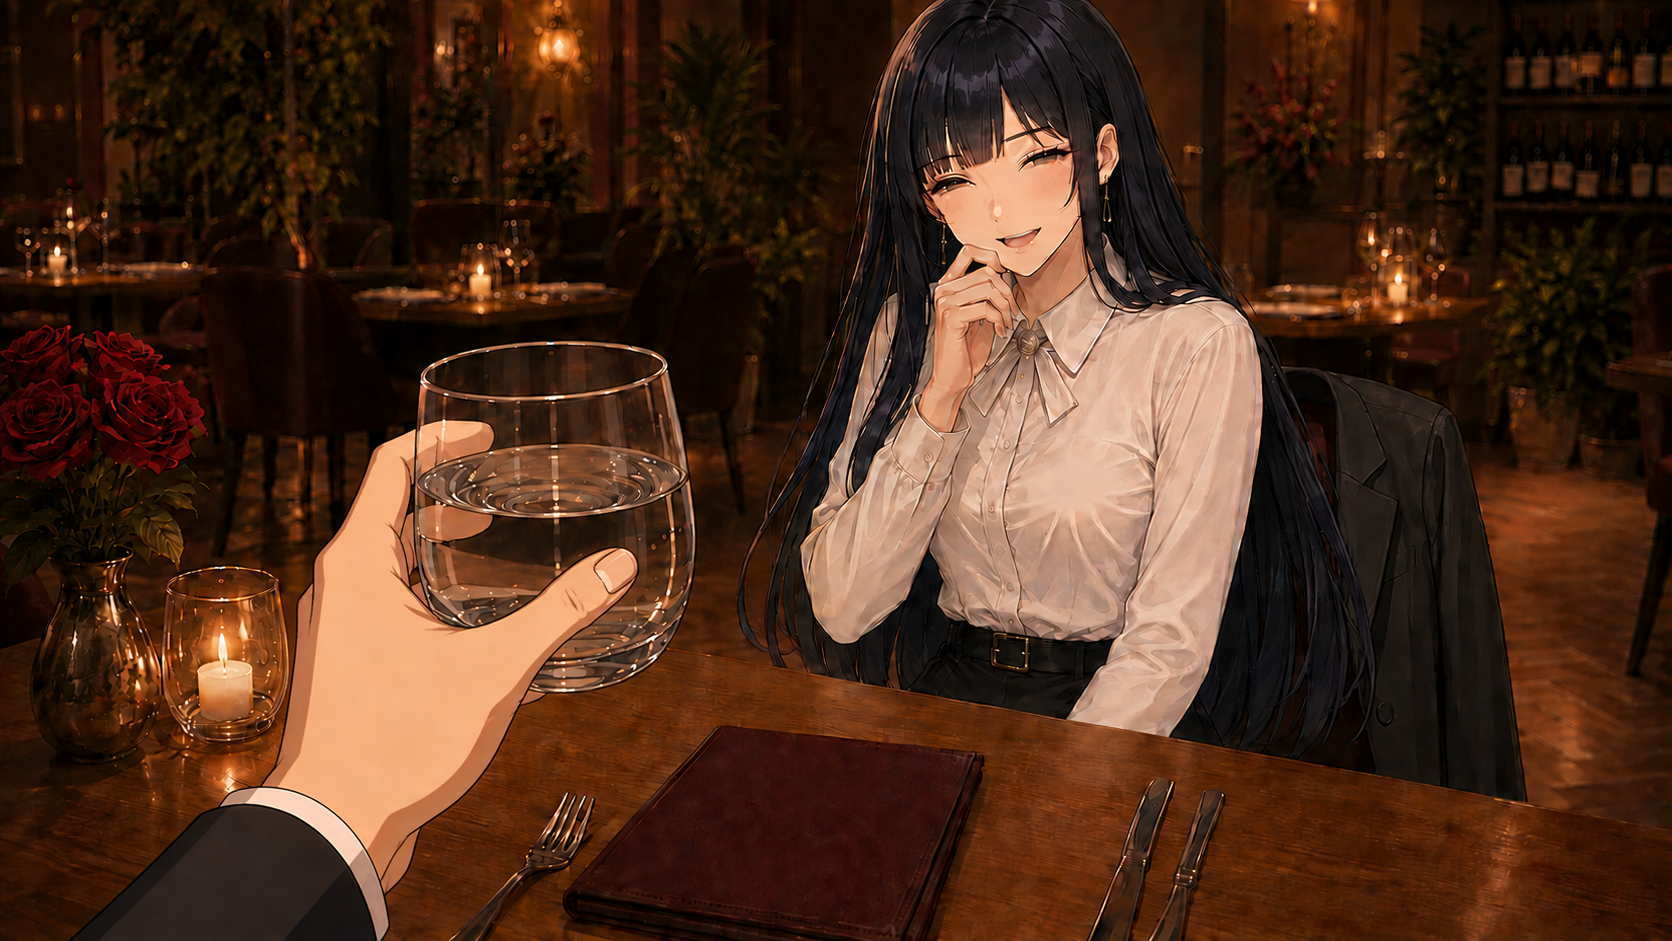
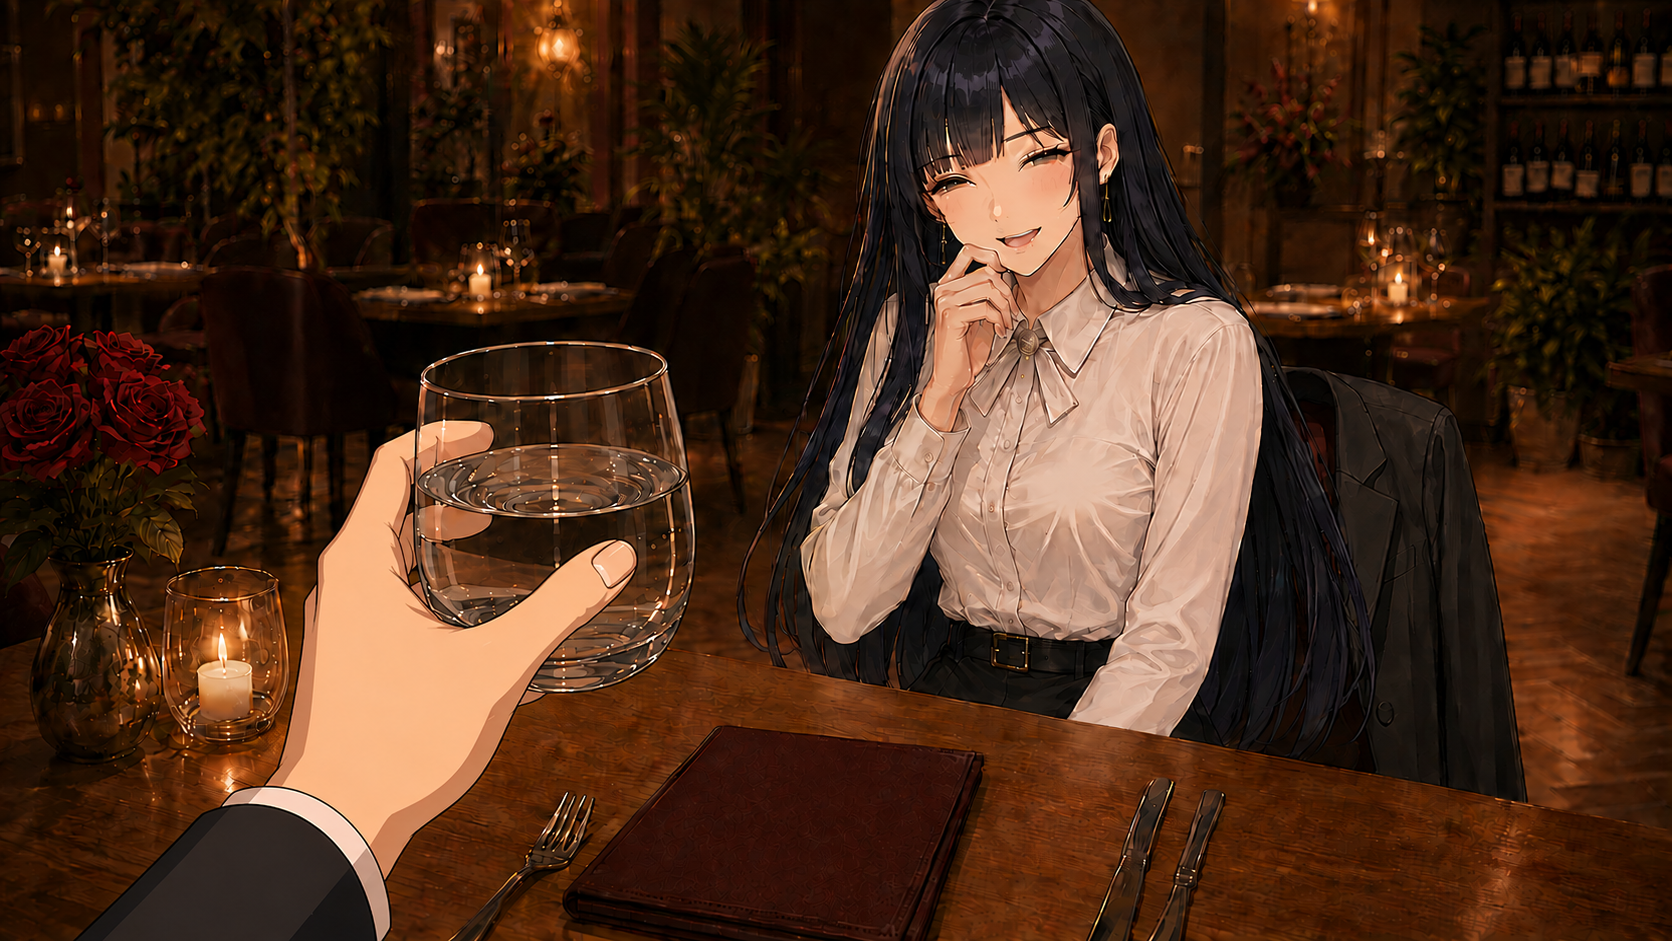
fix(art): harden anime hand style quarantine

diff --git a/game.js b/game.js
@@ -81,7 +81,7 @@ import { applyDay16V4GameChoice, completeDay16V4GameChapter, getDay16V4Compatibi
 import { LOCKED_DAY17_SCENE_ID, applyLockedDay17ChoiceState, getLockedDay17LegacyChoice, getLockedDay17ResumePresentation, getLockedDay17Segment } from "./src/day17-campaign-runtime.mjs?v=1";
 import { applyDay17V4GameChoice, completeDay17V4GameChapter, getDay17V4Compatibility, getDay17V4GameResumePresentation, getDay17V4GameSegment, prepareDay17V4GameEntry } from "./src/day17-v4-game-bridge.mjs?v=3";
 import { LOCKED_DAY18_SCENE_ID, applyLockedDay18ChoiceState as applyLegacyDay18ChoiceState, getLockedDay18LegacyChoice, getLockedDay18ResumePresentation as getLegacyDay18ResumePresentation, getLockedDay18Segment as getLegacyDay18Segment } from "./src/day18-campaign-runtime.mjs?v=1";
-import {prepareDay18V4GameEntry, getDay18V4GameSegment, getDay18V4GameResumePresentation, applyDay18V4GameChoice, completeDay18V4GameChapter} from "./src/day18-v4-game-bridge.mjs?v=58";
+import {prepareDay18V4GameEntry, getDay18V4GameSegment, getDay18V4GameResumePresentation, applyDay18V4GameChoice, completeDay18V4GameChapter} from "./src/day18-v4-game-bridge.mjs?v=59";
 import { LOCKED_DAY19_SCENE_ID, applyLockedDay19ChoiceState, getLockedDay19LegacyChoice, getLockedDay19ResumePresentation, getLockedDay19Segment } from "./src/day19-campaign-runtime.mjs?v=1";
 import { applyDay19V4GameChoice, completeDay19V4GameChapter, getDay19V4GameCompatibility, getDay19V4GameResumePresentation, getDay19V4GameSegment, prepareDay19V4GameEntry } from "./src/day19-v4-game-bridge.mjs?v=4";
 import { LOCKED_DAY20_SCENE_ID, applyLockedDay20ChoiceState as applyLegacyDay20ChoiceState, getLockedDay20LegacyChoice, getLockedDay20ResumePresentation as getLegacyDay20ResumePresentation, getLockedDay20Segment as getLegacyDay20Segment } from "./src/day20-campaign-runtime.mjs?v=1";

diff --git a/tests/day21-v4-browser-entry.html b/tests/day21-v4-browser-entry.html
@@ -7,7 +7,7 @@
 <button data-route="park">Park · 공원 대화</button><button data-route="phone">Phone · 통화</button><button data-route="deferred">Deferred · 무연락 연기</button><button data-route="busan">Busan · 검증 견적</button><button data-route="seoul">Seoul · 당일</button><button data-route="rest">Rest · 각자 쉬기</button><button id="restore">테스트 전 저장 복원</button><p role="status" id="status"></p>
 <script type="module">
 import {createInitialState} from '../src/game-core.mjs';import {createGirlfriendFromProfile} from '../src/girlfriend-manager.mjs';import {SaveManager} from '../src/save-manager.mjs';import {GAME_MODES} from '../src/scenario-state.mjs';
-import {beginDay18V4,applyDay18V4Choice} from '../src/day18-v4-state-contract.mjs';import {completeDay18V4GameChapter} from '../src/day18-v4-game-bridge.mjs?v=58';
+import {beginDay18V4,applyDay18V4Choice} from '../src/day18-v4-state-contract.mjs';import {completeDay18V4GameChapter} from '../src/day18-v4-game-bridge.mjs?v=59';
 import {getDay19V4Options} from '../src/day19-v4-state-contract.mjs';import {applyDay19V4GameChoice,completeDay19V4GameChapter,prepareDay19V4GameEntry} from '../src/day19-v4-game-bridge.mjs?v=4';
 import {getDay20V4Options} from '../src/day20-v4-state-contract.mjs';import {applyDay20V4GameChoice,applyDay20V4GameResolution,completeDay20V4GameChapter,getDay20V4GameSegment,prepareDay20V4GameEntry} from '../src/day20-v4-game-bridge.mjs?v=1';import {getDay20V4RuntimeResolution} from '../src/day20-v4-runtime-resolution.mjs?v=1';
 const backupKey='day21-v4-qa-save-backup',keys=[SaveManager.key,SaveManager.keyForMode(GAME_MODES.MARRIAGE_30),SaveManager.keyForMode(GAME_MODES.FREE_ROMANCE)];

diff --git a/tests/day19-v4-browser-entry.html b/tests/day19-v4-browser-entry.html
@@ -15,7 +15,7 @@ import {createGirlfriendFromProfile} from '../src/girlfriend-manager.mjs';
 import {SaveManager} from '../src/save-manager.mjs';
 import {GAME_MODES} from '../src/scenario-state.mjs';
 import {beginDay18V4,applyDay18V4Choice} from '../src/day18-v4-state-contract.mjs';
-import {completeDay18V4GameChapter} from '../src/day18-v4-game-bridge.mjs?v=58';
+import {completeDay18V4GameChapter} from '../src/day18-v4-game-bridge.mjs?v=59';
 const backupKey='day19-v4-qa-save-backup';
 const keys=[SaveManager.key,SaveManager.keyForMode(GAME_MODES.MARRIAGE_30),SaveManager.keyForMode(GAME_MODES.FREE_ROMANCE)];
 function backup(){if(sessionStorage.getItem(backupKey)===null)sessionStorage.setItem(backupKey,JSON.stringify(Object.fromEntries(keys.map(key=>[key,localStorage.getItem(key)]))));}

diff --git a/tests/day20-v4-browser-entry.html b/tests/day20-v4-browser-entry.html
@@ -17,7 +17,7 @@ import {createGirlfriendFromProfile} from '../src/girlfriend-manager.mjs';
 import {SaveManager} from '../src/save-manager.mjs';
 import {GAME_MODES} from '../src/scenario-state.mjs';
 import {beginDay18V4,applyDay18V4Choice} from '../src/day18-v4-state-contract.mjs';
-import {completeDay18V4GameChapter} from '../src/day18-v4-game-bridge.mjs?v=58';
+import {completeDay18V4GameChapter} from '../src/day18-v4-game-bridge.mjs?v=59';
 import {getDay19V4Options} from '../src/day19-v4-state-contract.mjs';
 import {applyDay19V4GameChoice,completeDay19V4GameChapter,prepareDay19V4GameEntry} from '../src/day19-v4-game-bridge.mjs?v=4';
 const backupKey='day20-v4-qa-save-backup';

diff --git a/tests/day18-v4-browser-entry.html b/tests/day18-v4-browser-entry.html
@@ -41,7 +41,7 @@ import {createInitialState} from '../src/game-core.mjs';
 import {createGirlfriendFromProfile} from '../src/girlfriend-manager.mjs';
 import {SaveManager} from '../src/save-manager.mjs';
 import {GAME_MODES} from '../src/scenario-state.mjs';
-import {prepareDay18V4GameEntry,applyDay18V4GameChoice} from '../src/day18-v4-game-bridge.mjs?v=58';
+import {prepareDay18V4GameEntry,applyDay18V4GameChoice} from '../src/day18-v4-game-bridge.mjs?v=59';
 const backupKey = 'day18-v4-qa-save-backup';
 const keys = [SaveManager.key, SaveManager.keyForMode(GAME_MODES.MARRIAGE_30)];
 document.querySelectorAll('[data-route]').forEach(button => button.addEventListener('click', () => {

diff --git a/index.html b/index.html
@@ -279,6 +279,6 @@
     </article>
   </section>
   <div id="toast" class="toast"></div>
-  <script type="module" src="game.js?v=254"></script>
+  <script type="module" src="game.js?v=255"></script>
 </body>
 </html>

diff --git a/docs/DAY18_V4_HAND_STYLE_CORRECTION.md b/docs/DAY18_V4_HAND_STYLE_CORRECTION.md
@@ -28,17 +28,26 @@ DAY 18 손 포함 CG를 전수 육안 감사했다. `yuri-menu-wait-water-v1`, `
 
 2026-09-05 추가 신고의 첨부 화면은 v3 구도와 일치했다. 캐시된 구버전이 승인본으로 치환됐다는 문서 기록만 믿지 않고 새 `yuri-menu-wait-water-v5.png`를 다시 정밀 편집했다. 손·손목·소매 경계에 캐릭터와 같은 선화와 셀 명암을 재강제하고 v1~v4 파일 내용도 v5와 바이트 동일하게 격리했다. 런타임은 v5만 참조하며 캐시 사슬은 `game.js?v=254` → bridge v58 → playable v58 → v5 이미지 URL로 갱신했다.
 
+2026-09-06 재신고 화면도 같은 장면의 배포 이력 비트맵과 일치했다. 새 `yuri-menu-wait-water-v6.png`는 전경 손·노출 손목·소매 경계만 다시 편집해 손가락 전체의 굵은 외곽선, 단순화한 관절, 평면 피부와 정확히 분리된 2단 셀 명암을 강화했다. 유리의 얼굴·의상·자세, 물잔·수위·반사, 식탁·메뉴·배경·크롭은 유지했다. 런타임은 v6만 참조하고 v1~v5의 파일 내용도 v6와 바이트 동일하게 격리한다. 캐시 사슬은 `game.js?v=255` → bridge v59 → playable v59 → v6 이미지 URL이다.
+
 후속 재발 방지에서는 런타임 경로 차단만으로는 오래 열린 탭·이전 저장·중간 캐시가 반려 URL을 재요청할 수 있다고 판단했다. 위 표의 반려 v1 파일과 유리 물 장면 v2·v3 파일을 각각의 승인 v2/v4 비트맵과 바이트 단위로 동일하게 격리 교체했다. 현재 런타임은 여전히 새 버전 파일명만 참조하지만, 구버전 클라이언트가 과거 URL을 요청해도 실사 손 원본은 전달되지 않는다.
 
 모든 수정은 기존 구도·행동·소품을 보존하는 정밀 편집으로 진행했다. 공통 최종 프롬프트 계약은 `clean 2D anime cel-shaded visual-novel line art`, 단순화한 관절과 2~3단계 넓은 명암, 사진식 피부·모공·혈관·체모·서브서피스·젖은 피부 하이라이트 금지다. imagegen 생성 원본은 Codex generated_images 보관 위치에 남겨 두고 프로젝트에는 승인된 버전 파일을 복사했다.
 
 재감사 4자산은 built-in imagegen의 `precise-object-edit`로 편집했다. 배경·구도·소품·스토리 행동은 보존하고 손·손목·소매 경계만 변경했으며, 각 손의 다섯 손가락·관절·소품 접촉을 별도 확인했다. 생성 원본은 각각 `exec-3fae9045-575e-4d79-a880-2874bcb70cd8.png`, `exec-c5cb230a-c823-4a58-ab39-2bf7a4f885b5.png`, `exec-ebd0d2b9-032a-4799-bb00-4ad760edb960.png`, `exec-b3699c4a-6115-448c-a3b0-b8d4bb3d3332.png`이며 프로젝트에는 대응하는 v2 파일로 복사했다.
 
+## 2026-09-06 같은 DAY 전수 재감사
+
+- DAY18 실행 소스가 참조하는 이벤트 이미지 31개를 다시 추출해 4장 연락표에서 전경·모서리·소품 주변을 전수 확인했다.
+- 혼합 화풍 위험이 상대적으로 큰 `food-sharing-v2`, `fridge-open-morning-v1`, `morning-feet-rest-v1`, `shoulder-water-glass-v1`과 신고 장면 v6는 원본 크기로 다시 확인했다.
+- 손가락/발가락 수와 관절·소품 가림은 `해부학 PASS`, 외곽선·단순화한 관절·분리된 셀 명암은 `화풍 PASS`다. 신고 컷 외 신규 FAIL은 발견되지 않았다.
+- 인체가 없는 `travel-window-sea-v1`, `jihoon-finished-bowl-v1`, `solo-phone-down-extra-food-v1`은 손 화풍 비대상으로 분리했다. 이 판정은 DAY18에만 적용하며 다른 DAY의 전수 감사 완료를 뜻하지 않는다.
+
 ## 런타임 계약
 
-- 유리 물 장면은 v5, 나머지 교체 자산은 위 v2를 참조한다.
-- 반려된 유리 물 v1·v2·v3·v4와 나머지 v1 이름은 실행 소스에 다시 들어갈 수 없다.
-- 자동 테스트는 모든 반려 파일명이 생성된 DAY18 세그먼트 어디에도 나타나지 않는지, 승인된 v4/v2 자산이 실제로 존재하는지 함께 검사한다.
+- 유리 물 장면은 v6, 나머지 교체 자산은 위 v2를 참조한다.
+- 반려된 유리 물 v1·v2·v3·v4·v5와 나머지 v1 이름은 실행 소스에 다시 들어갈 수 없다.
+- 자동 테스트는 모든 반려 파일명이 생성된 DAY18 세그먼트 어디에도 나타나지 않는지, 승인된 v6/v2 자산이 실제로 존재하는지 함께 검사한다.
 - 자동 테스트는 이미 배포된 반려 URL 11개가 대응 승인본과 바이트 단위로 동일한지도 검사한다.
 - 상세 재발 방지 규칙은 `docs/STORY_V4_IMAGE_STYLE_RULES.md`를 따른다.
 
@@ -47,12 +56,13 @@ DAY 18 손 포함 CG를 전수 육안 감사했다. `yuri-menu-wait-water-v1`, `
 - built-in imagegen `precise-object-edit`를 사용했다. 원본 생성 파일은 `exec-d585e3df-c673-44da-ab67-60594e2c23c9.png`, 프로젝트 최종본은 `assets/events/day18-v4/yuri-menu-wait-water-v4.png`다.
 - 1672×941 원본에서 전경 손의 다섯 손가락·유리잔 그립과 선명한 외곽선·2~3단계 셀 명암을 확인했다. 사진식 모공·혈관·체모·연속 피부 그라데이션은 없다.
 
-## v5 최종 검증
+## v6 최종 검증
 
 - built-in imagegen `precise-object-edit`를 사용했다. 최종 프롬프트는 손·노출 손목·소매 경계만 변경하고 유리의 얼굴·의상·자세, 물잔 위치·수위, 식탁·메뉴·배경·크롭을 보존하도록 고정했다.
 - 생성 원본은 `exec-85b9db3b-cf84-4a00-9369-1e45c31ab120.png`, 프로젝트 최종본은 `assets/events/day18-v4/yuri-menu-wait-water-v5.png`다.
[1 lines of base64/hex data omitted]
 - 1672×941 원본에서 다섯 손가락, 잔의 접촉·가림, 손목 연속성은 `해부학 PASS`; 캐릭터와 같은 외곽선, 단순화한 관절, 평면 피부와 분리된 명암은 `화풍 PASS`다.
[2 lines of base64/hex data omitted]
 
 ## v3 실제 화면 재검증
 

diff --git a/docs/STORY_V4_IMAGE_STYLE_RULES.md b/docs/STORY_V4_IMAGE_STYLE_RULES.md
@@ -20,6 +20,8 @@
 14. 손이 `매끈하다`는 이유만으로 승인하지 않는다. 캐릭터 얼굴과 나란히 보았을 때 손에도 읽을 수 있는 외곽선, 분리된 명암 경계, 단순화된 관절 표현이 모두 있어야 한다. 피부가 연속적인 빛 번짐이나 사진식 볼륨으로만 형태를 만들면 모공이 보이지 않아도 `화풍 FAIL`이다.
 15. 새 파일명으로 캐시를 끊는 것만으로 완료 처리하지 않는다. 배포 이력이 있는 같은 장면의 모든 구버전 URL은 캐시 히트 여부와 무관하게 최신 승인본과 **내용 해시가 같아야** 한다. 런타임 최신 URL, 과거 URL별 파일 해시, 최상위 스크립트 캐시 버전의 세 항목을 자동 테스트로 함께 고정한다.
 16. 손 화풍 검수는 `모공이 없는가`가 아니라 `같은 프레임의 얼굴과 동일한 묘사 문법인가`로 판정한다. 전경 손의 외곽선 굵기, 관절 단순화, 피부 명암 단계, 소매 경계 중 하나라도 얼굴·의상보다 사진적으로 읽히면 재생성하며 UI로 가리거나 크롭해서 통과시키지 않는다.
+17. **사용자 재신고**가 들어오면 신고된 한 컷만 고치고 종료하지 않는다. 같은 DAY의 손 포함 자산 전수 감사를 다시 열어 POV 손, 상대 손, 화면 가장자리 손, 소품을 잡은 손을 모두 원본 크기로 재검사한다. 전수 감사 결과와 아직 보지 못한 자산은 각각 PASS / FAIL / NOT RUN으로 남긴다.
+18. 애니메이션 얼굴과 실사형 손이 섞인 화면은 기능 오류와 같은 **운영 차단 등급 HIGH**로 취급한다. 최신 승인 URL과 모든 배포 이력 URL의 격리, 최상위 캐시 사슬 갱신, 실제 브라우저 일반 진입·저장 재개 확인이 끝나기 전에는 수정 완료나 해당 DAY의 이미지 QA COMPLETE를 선언하지 않는다.
 
 ## 생성·편집 프롬프트 규칙
 
@@ -45,3 +47,4 @@
 9. 현장 재노출 신고가 들어오면 화면과 자산을 해시·구도로 대조하고, 최신 런타임 URL뿐 아니라 같은 장면의 모든 과거 URL을 직접 요청해 검사한다. 하나라도 반려 비트맵을 반환하면 배포 불합격이다.
 10. 시나리오별 이미지 manifest에서 손 포함 자산을 명시적으로 표시하고, 신규 연결 커밋의 테스트는 반려 URL 비노출과 승인 URL 존재를 함께 검증한다. 이 목록이 없으면 해당 시나리오의 이미지 QA를 완료 처리하지 않는다.
 11. 배포 직전에는 최신 URL뿐 아니라 같은 장면의 모든 배포 이력 URL을 직접 열어 승인본과 내용 해시가 같은지 확인한다. CDN·서비스 워커·브라우저 캐시 중 어디에서 응답하더라도 실사 손 비트맵이 남아 있으면 FAIL이다.
+12. 사용자 재신고 후에는 해당 DAY manifest의 모든 `containsHumanPart=true` 항목을 재검사하고, 신고 컷 외 자산을 확인하지 않았다면 `전수 감사 NOT RUN`으로 남긴다. 한 컷 교체 결과를 전체 손 화풍 PASS로 확대하지 않는다.

diff --git a/docs/DAY18_V4_YURI_MENU_WATER.md b/docs/DAY18_V4_YURI_MENU_WATER.md
@@ -12,7 +12,7 @@
 
 - 최초 자산: `assets/events/day18-v4/yuri-menu-wait-water-v1.png` (손 화풍 반려)
 - 1차 수정본: `assets/events/day18-v4/yuri-menu-wait-water-v2.png` (재노출 신고 후 런타임 반려)
-- 최종 런타임 경로: `assets/events/day18-v4/yuri-menu-wait-water-v5.png` (전경 손·손목·소매 경계를 다시 정밀 편집하고 굵은 선화와 2~3단계 셀 명암을 재강제)
+- 최종 런타임 경로: `assets/events/day18-v4/yuri-menu-wait-water-v6.png` (전경 손·손목·소매 경계를 다시 정밀 편집하고 굵은 선화, 단순화한 관절, 분리된 2단 셀 명암을 재강제)
 - 참조: `menu-open-v1.png`, `yuri-ex-girlfriend-2d.png`, `yuri-jacket-chair-v1.png`
 - 최신 생성 원본: `C:\Users\aaa\.codex\generated_images\01a06810-af54-7db0-a3f6-3764034ac137\exec-2242954d-b3b6-4ad3-9046-340212a5d16f.png`
 - 생성 방식: built-in imagegen.
